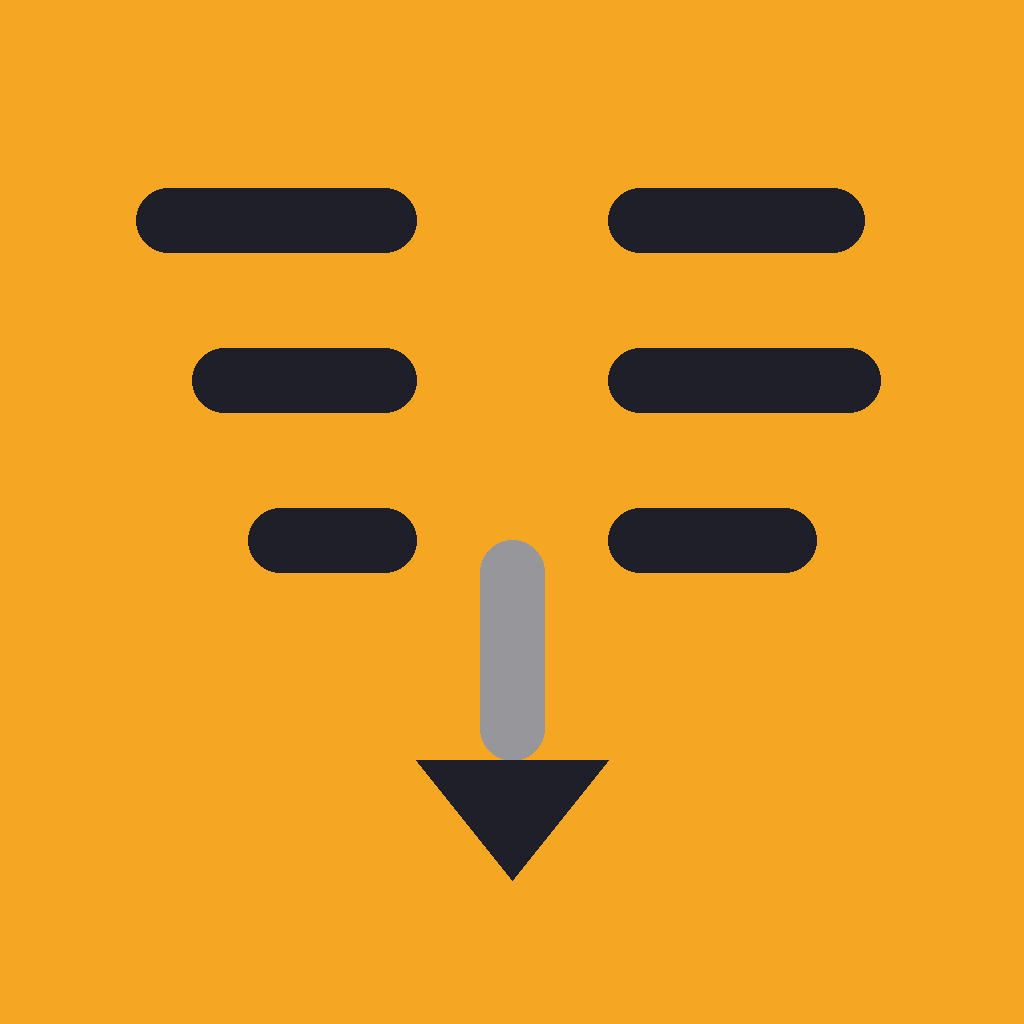
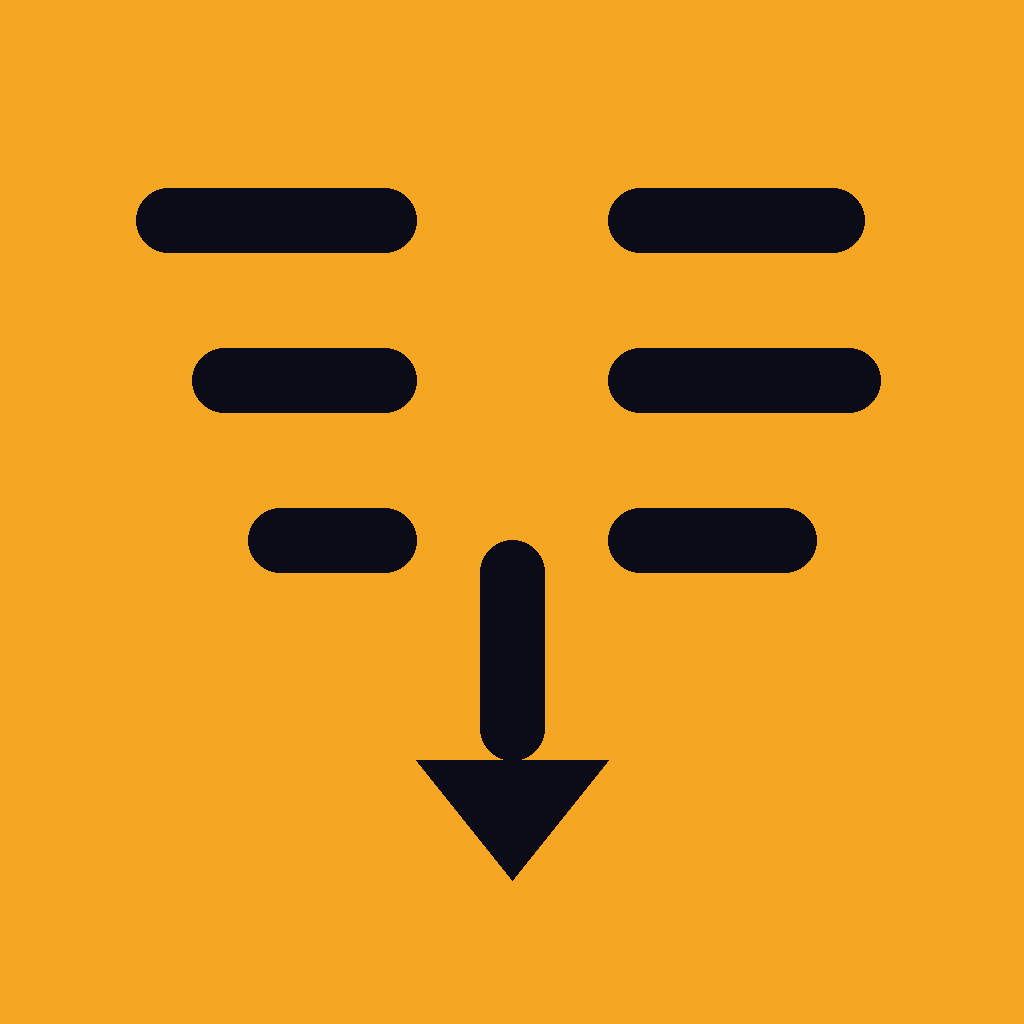
Merge pull request #76 from hirokatsuhibino/feat/issue-75-app-store-submission
feat: Mac App Store / iOS App Store 提出設定を追加（Phase 4）

Pull request: feat: Mac App Store / iOS App Store 提出設定を追加（Phase 4）
## Summary

- macOS App / Extension に **App Sandbox + Outgoing Connections** capability を追加（Mac App Store 提出必須）
- 全 8 build configuration に **DEVELOPMENT_TEAM** を設定
- macOS App に **App Category**（`public.app-category.productivity` = 仕事効率化）を設定
- **iOS App Store ラージアイコン**のアルファチャネルを削除（`assets/generate-icons.py` で RGB 出力）
- Main.storyboard を Xcode 26 形式に自動アップグレード

これで macOS / iOS とも Archive → App Store Connect への Upload が成功する状態になりました。

## 動作確認

- macOS Archive: `ARCHIVE SUCCEEDED`、Upload も成功
- iOS Archive: `ARCHIVE SUCCEEDED`、Upload も成功（最初はアルファチャネルエラーで弾かれたが本 PR で修正）
- Vitest: 350/350 PASS（前回 PR から継続）
- macOS Safari 実機動作: 拡張ロード OK、翻訳機能正常

## 残タスク（別Issue / 今後対応）

- TestFlight 配信 → 実機検証（macOS / iOS）
- App Store Connect でメタデータ入力（スクリーンショット・説明文・プライバシー情報）
- App Store 申請

closes #75

Changed region(s): [[0.4688, 0.5312, 0.5312, 0.75]]

diff --git a/assets/generate-icons.py b/assets/generate-icons.py
@@ -140,12 +140,13 @@ def main() -> None:
     master = draw_master()
     # アーカイブ用：マスターと2系統の1024px
     master.save(assets_dir / "app-icon-master-1024.png", "PNG", optimize=True)
-    ios_1024 = master.copy()  # iOS は角丸なし
+    # iOS App Store のラージアイコンは透過 / アルファチャネル禁止のため RGB で書き出す
+    ios_1024 = master.convert("RGB")
     mac_1024 = apply_squircle_mask(master)
     ios_1024.save(assets_dir / "app-icon-ios-1024.png", "PNG", optimize=True)
     mac_1024.save(assets_dir / "app-icon-mac-1024.png", "PNG", optimize=True)
 
-    # iOS App Store 用（角丸なし、ピンクパディング無し）
+    # iOS App Store 用（角丸なし・アルファなし、ピンクパディング無し）
     (appicon_dir / "[email redacted]").write_bytes(
         (assets_dir / "app-icon-ios-1024.png").read_bytes()
     )